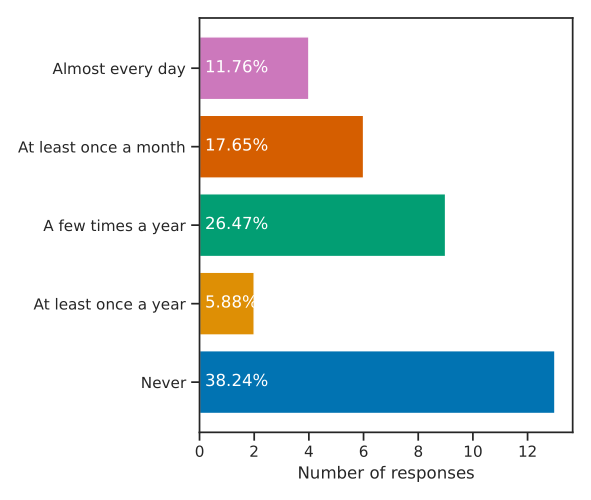
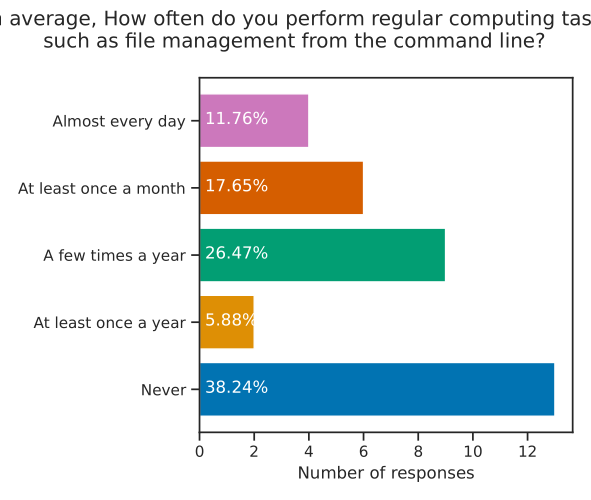
plot: Update plot titles

Changed region(s): [[0.0, 0.0, 1.0, 0.84], [0.0609, 0.42, 0.3046, 0.54]]

diff --git a/thesis/plots/learningstyle/plot.py b/thesis/plots/learningstyle/plot.py
@@ -47,6 +47,7 @@ for bar in bars:
 
 plt.xlabel("Number of responses")
 
+fig.suptitle("What is your preferred method of learning related to\n technical topics?", wrap=True)
 # plt.tight_layout()
 fig.savefig("plot.png", dpi=100)
 fig.savefig("plot.pgf", format="pgf", bbox_inches="tight", transparent=True)

diff --git a/thesis/plots/often2/plot.py b/thesis/plots/often2/plot.py
@@ -9,10 +9,12 @@ fig = plt.figure()
 
 fig.set_size_inches(5.90666, 5)
 
+
 sns.set(style="ticks")
 
 colors = sns.color_palette("colorblind")
 
+fig.suptitle("On average, How often do you perform regular computing tasks\n such as file management from the command line?")
 
 total = 34
 data = {

diff --git a/thesis/plots/often/plot.py b/thesis/plots/often/plot.py
@@ -13,6 +13,7 @@ sns.set(style="ticks")
 
 colors = sns.color_palette("colorblind")
 
+fig.suptitle("On average how often do you use command line applications or terminal based tools?", wrap=True)
 
 total = 34
 data = {
